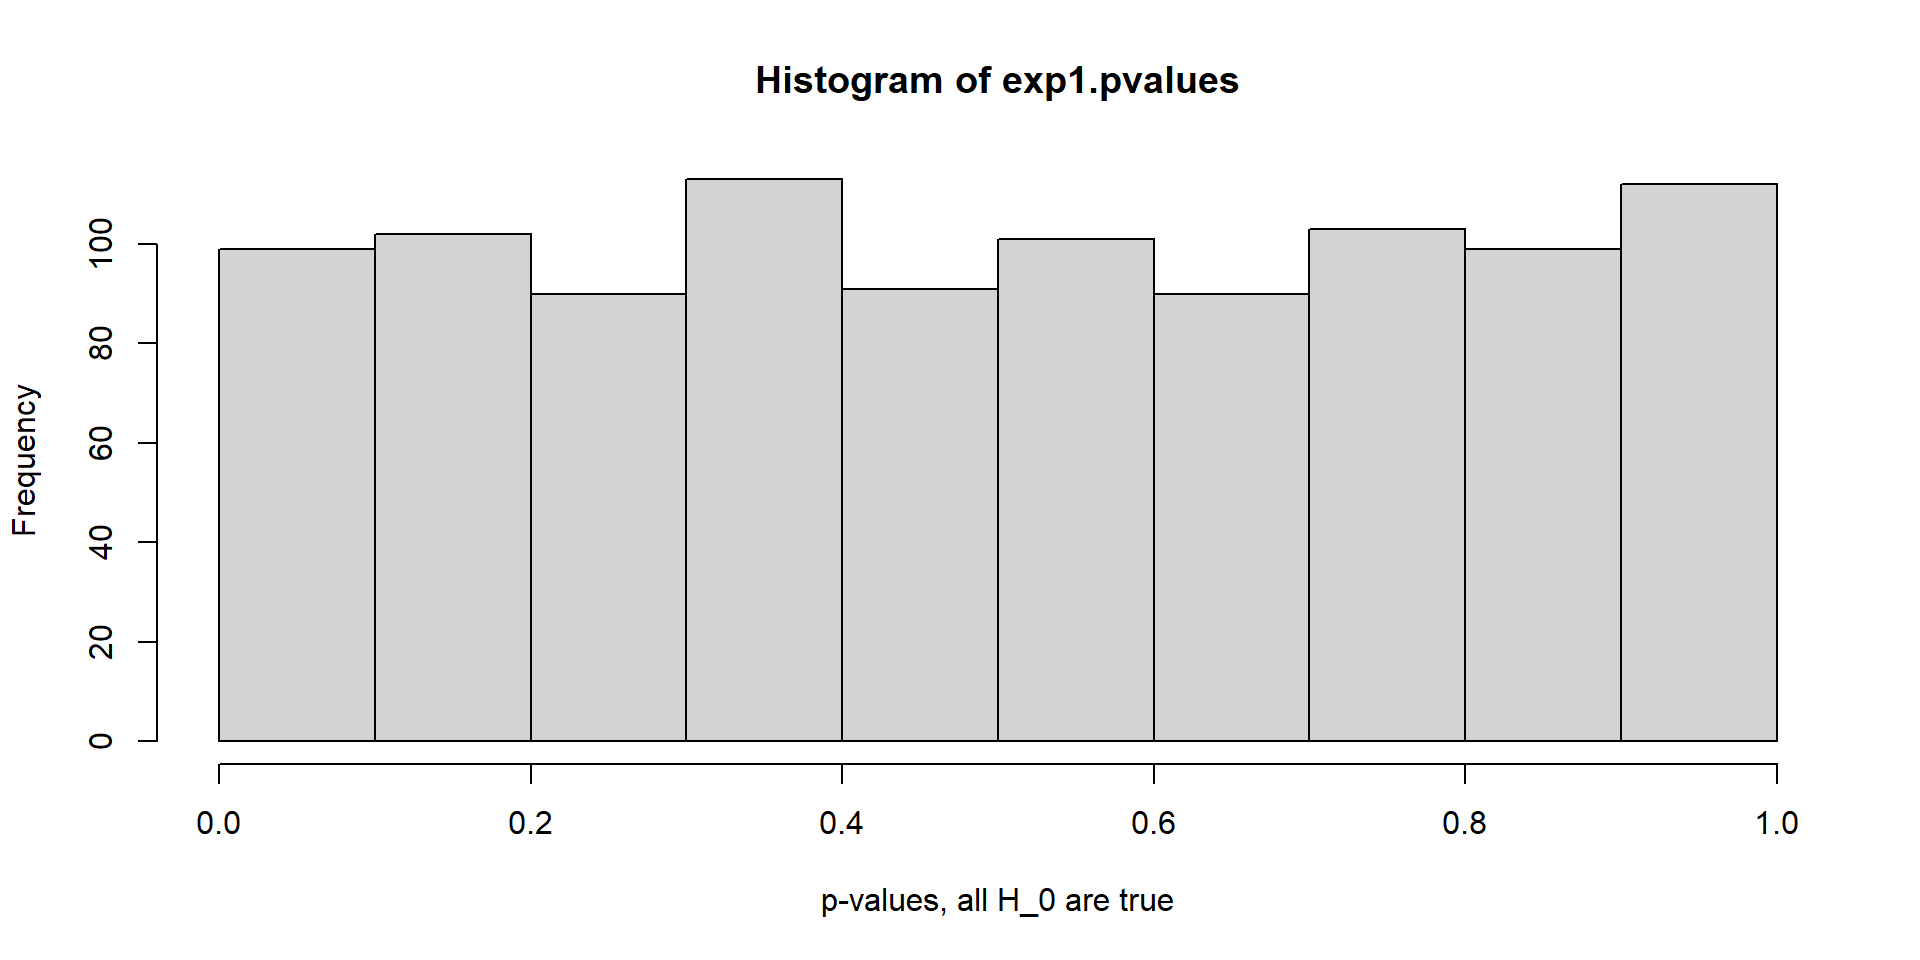
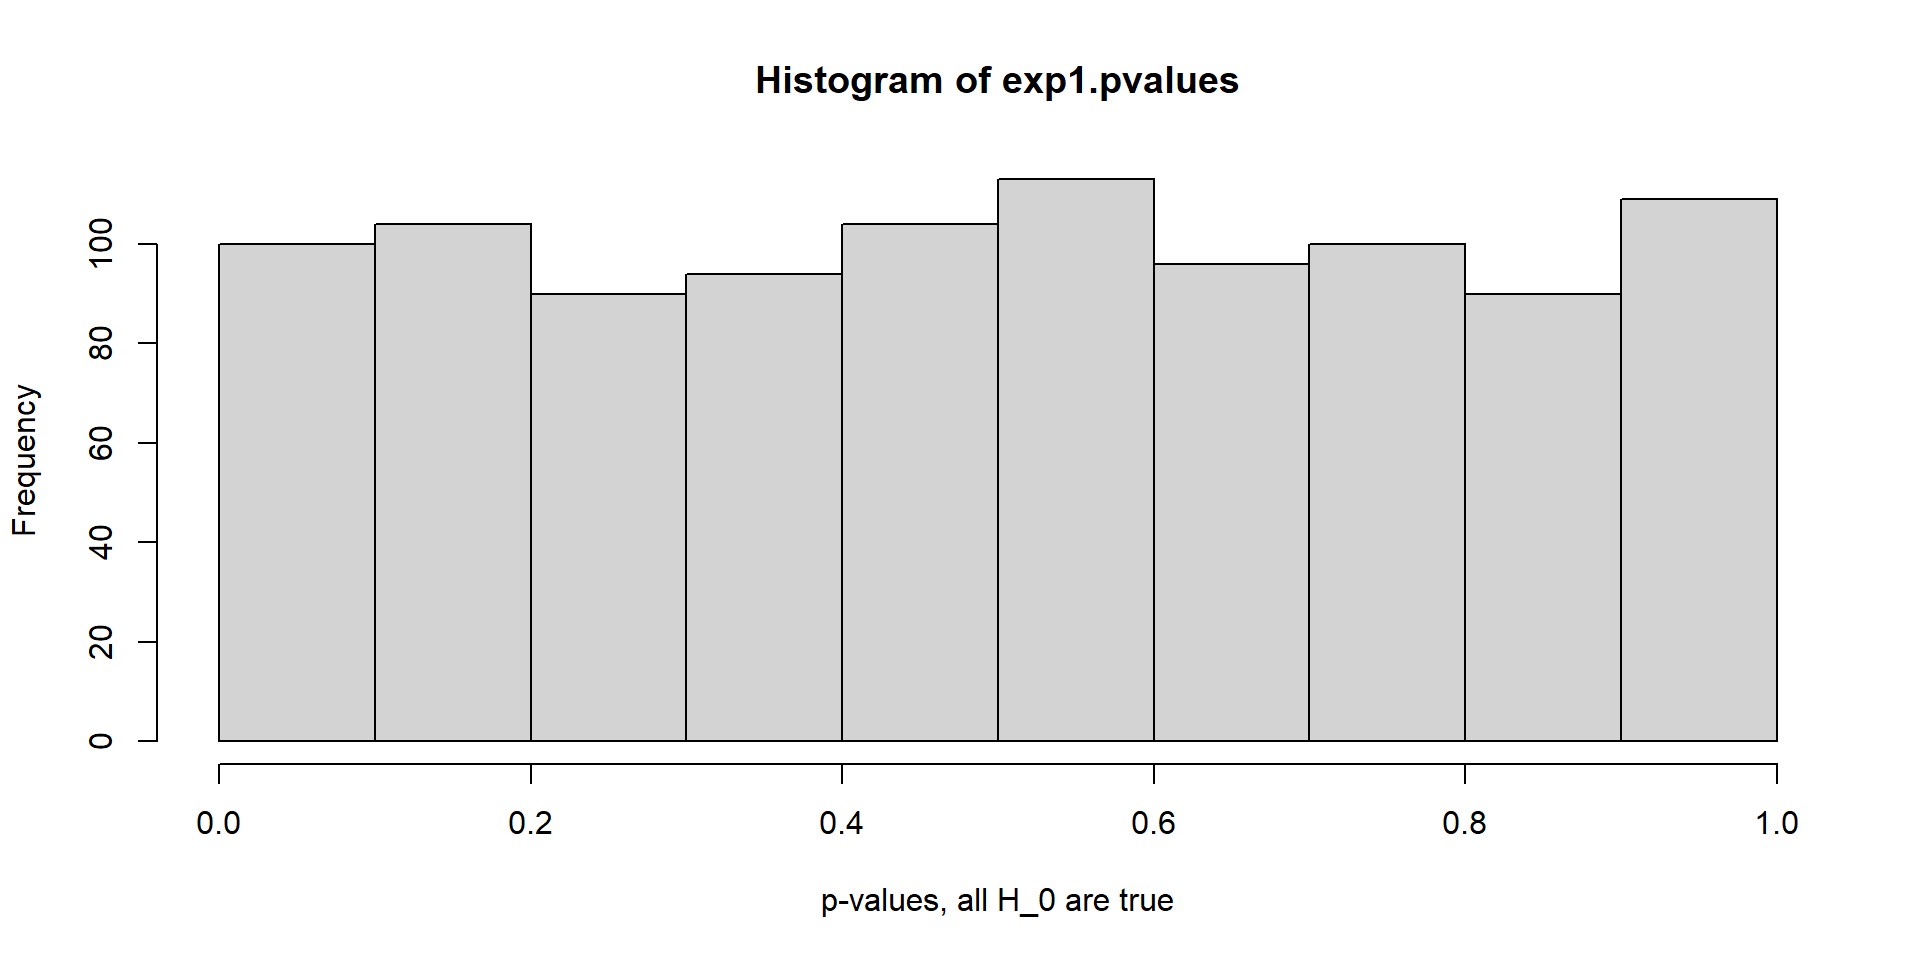
day 7

diff --git a/docs/Day7_MultipleTesting.html b/docs/Day7_MultipleTesting.html
@@ -11,7 +11,7 @@
   <meta name="generator" content="quarto-1.4.555">
 
   <meta name="author" content="Zhaoxia Yu, Department of Statistics, University of California, Irvine">
-  <meta name="dcterms.date" content="2024-07-15">
+  <meta name="dcterms.date" content="2024-07-16">
   <title>Day 7 - Multiple Testing</title>
   <meta name="apple-mobile-web-app-capable" content="yes">
   <meta name="apple-mobile-web-app-status-bar-style" content="black-translucent">
@@ -403,7 +403,7 @@ Zhaoxia Yu, Department of Statistics, University of California, Irvine
 </div>
 </div>
 
-  <p class="date">2024-07-15</p>
+  <p class="date">2024-07-16</p>
 </section>
 <section id="load-libraries" class="slide level2">
 <h2>Load Libraries</h2>
@@ -425,8 +425,8 @@ Zhaoxia Yu, Department of Statistics, University of California, Irvine
 <details class="code-fold">
 <summary>Code</summary>
 <div class="sourceCode cell-code" id="cb2"><pre class="sourceCode numberSource r number-lines code-with-copy"><code class="sourceCode r"><span id="cb2-1"><a href=""></a><span class="co"># Define the table with row and column labels</span></span>
-<span id="cb2-2"><a href=""></a>confusion_matrix <span class="ot">&lt;-</span> <span class="fu">matrix</span>(<span class="fu">c</span>(<span class="st">"True Positive (TP)"</span>, <span class="st">"False Positive (FP)"</span>, </span>
-<span id="cb2-3"><a href=""></a>                             <span class="st">"False Negative (FN)"</span>, <span class="st">"True Negative (TN)"</span>),</span>
+<span id="cb2-2"><a href=""></a>confusion_matrix <span class="ot">&lt;-</span> <span class="fu">matrix</span>(<span class="fu">c</span>(<span class="st">"True Positive (TP)"</span>, <span class="st">"False Negative (FN)"</span>, </span>
+<span id="cb2-3"><a href=""></a>                             <span class="st">"False Positive (FP)"</span>, <span class="st">"True Negative (TN)"</span>),</span>
 <span id="cb2-4"><a href=""></a>                           <span class="at">nrow =</span> <span class="dv">2</span>, <span class="at">byrow =</span> <span class="cn">TRUE</span>,</span>
 <span id="cb2-5"><a href=""></a>                           <span class="at">dimnames =</span> <span class="fu">list</span>(<span class="st">"Truth"</span> <span class="ot">=</span> <span class="fu">c</span>(<span class="st">"Positive"</span>, <span class="st">"Negative"</span>),</span>
 <span id="cb2-6"><a href=""></a>                                           <span class="st">"Tested"</span> <span class="ot">=</span> <span class="fu">c</span>(<span class="st">"Positive"</span>, <span class="st">"Negative"</span>)))</span>
@@ -435,8 +435,8 @@ Zhaoxia Yu, Department of Statistics, University of California, Irvine
 <div class="cell-output cell-output-stdout">
 <pre><code>          Tested
 Truth      Positive              Negative             
-  Positive "True Positive (TP)"  "False Positive (FP)"
-  Negative "False Negative (FN)" "True Negative (TN)" </code></pre>
+  Positive "True Positive (TP)"  "False Negative (FN)"
+  Negative "False Positive (FP)" "True Negative (TN)" </code></pre>
 </div>
 <details class="code-fold">
 <summary>Code</summary>
@@ -476,9 +476,9 @@ Truth      Positive              Negative
 <span id="cb5-4"><a href=""></a><span class="fu">colnames</span>(X) <span class="ot">=</span> <span class="fu">paste</span>(<span class="st">"g"</span>, <span class="at">sep=</span><span class="st">""</span>, <span class="dv">1</span><span class="sc">:</span><span class="dv">1000</span>)</span>
 <span id="cb5-5"><a href=""></a></span>
 <span id="cb5-6"><a href=""></a><span class="co">#simulate </span></span>
-<span id="cb5-7"><a href=""></a><span class="co">#mydata=read_sheet("https://docs.google.com/spreadsheets/d/1tsBz8WUSEHwU3lYAXedtvD-pk4IebusAv2XaRyF_nXg/edit?usp=sharing")</span></span>
-<span id="cb5-8"><a href=""></a><span class="co">#y=mydata$randnumber_day7[1:35]</span></span>
-<span id="cb5-9"><a href=""></a>y<span class="ot">=</span><span class="fu">rnorm</span>(<span class="dv">35</span>)</span>
+<span id="cb5-7"><a href=""></a>mydata<span class="ot">=</span><span class="fu">read_sheet</span>(<span class="st">"https://docs.google.com/spreadsheets/d/1tsBz8WUSEHwU3lYAXedtvD-pk4IebusAv2XaRyF_nXg/edit?usp=sharing"</span>)</span>
+<span id="cb5-8"><a href=""></a>y<span class="ot">=</span>mydata<span class="sc">$</span>randnumber_day7[<span class="dv">1</span><span class="sc">:</span><span class="dv">35</span>]</span>
+<span id="cb5-9"><a href=""></a><span class="co">#y=rnorm(35)</span></span>
 <span id="cb5-10"><a href=""></a></span>
 <span id="cb5-11"><a href=""></a>cor.test.p<span class="ot">=</span><span class="cf">function</span>(x,y){</span>
 <span id="cb5-12"><a href=""></a>  <span class="fu">return</span>(<span class="fu">cor.test</span>(x,y)<span class="sc">$</span>p.value)</span>
@@ -496,14 +496,14 @@ Truth      Positive              Negative
 
 </div>
 <img data-src="Day7_MultipleTesting_files/figure-revealjs/unnamed-chunk-4-1.png" class="quarto-figure quarto-figure-center r-stretch" width="960"></section>
-<section id="distribution-of-the-p-values" class="slide level2">
-<h2>Distribution of the p-values</h2>
-<!-- 
-when All $H_0$ Are True
-- In Experiment 1, the response variable $y$ is **independently** simulated of $X$. No gene is related to the response variable, i.e., all $H_0$ are true.   
--   In theory, when all $H_0$ are true, the distribution of p-values should follow a uniform distribution.
--   The histrogram is very close to uniform.
--->
+<section id="distribution-of-the-p-values-when-all-h_0-are-true" class="slide level2">
+<h2>Distribution of the p-values when All <span class="math inline">\(H_0\)</span> Are True</h2>
+<ul>
+<li>In Experiment 1, the response variable <span class="math inline">\(y\)</span> is <strong>independently</strong> simulated of <span class="math inline">\(X\)</span>. No gene is related to the response variable, i.e., all <span class="math inline">\(H_0\)</span> are true.<br>
+</li>
+<li>In theory, when all <span class="math inline">\(H_0\)</span> are true, the distribution of p-values should follow a uniform distribution.</li>
+<li>The histrogram is very close to uniform.</li>
+</ul>
 </section>
 <section id="experiment-one-number-of-significant-genes-at-level-0.05" class="slide level2">
 <h2>Experiment One: Number of Significant Genes at level 0.05</h2>
@@ -514,19 +514,18 @@ when All $H_0$ Are True
 </div>
 <div class="sourceCode cell-code" id="cb9"><pre class="sourceCode numberSource r number-lines code-with-copy"><code class="sourceCode r"><span id="cb9-1"><a href=""></a><span class="fu">sum</span>(exp1.pvalues<span class="sc">&lt;</span><span class="fl">0.05</span>)</span></code><button title="Copy to Clipboard" class="code-copy-button"><i class="bi"></i></button></pre></div>
 <div class="cell-output cell-output-stdout">
-<pre><code>[1] 59</code></pre>
+<pre><code>[1] 56</code></pre>
 </div>
 </div>
 </section>
 <section id="experiment-one-false-positives" class="slide level2">
 <h2>Experiment One: False Positives</h2>
 <ul>
-<li>In the experiment, the trait (Y) is simulated <strong>independently</strong> from genes. <!--
--   There is no gene is correlated with the trait.
--   But we "detected" significant genes.
--   Why? When all $H_0$ are true, the p-values follow a **uniform** distribution on [0,1]. Just by chance, around 5% of genes will have p-values less than 0.05. 
--   This is known as multiple testing.
---></li>
+<li>In the experiment, the trait (Y) is simulated <strong>independently</strong> from genes.</li>
+<li>There is no gene is correlated with the trait.</li>
+<li>But we “detected” significant genes.</li>
+<li>Why? When all <span class="math inline">\(H_0\)</span> are true, the p-values follow a <strong>uniform</strong> distribution on [0,1]. Just by chance, around 5% of genes will have p-values less than 0.05.</li>
+<li>This is known as multiple testing.</li>
 </ul>
 </section>
 <section id="handling-multiple-testings" class="slide level2 scrollable">
@@ -621,7 +620,7 @@ when All $H_0$ Are True
 <h2>Example 2: Simulate Data and compute p-values</h2>
 <div class="cell">
 <div class="sourceCode cell-code" id="cb17"><pre class="sourceCode numberSource r number-lines code-with-copy"><code class="sourceCode r"><span id="cb17-1"><a href=""></a><span class="co">#For simplicity, we make the first 200 genes correlated with y</span></span>
-<span id="cb17-2"><a href=""></a>X[,<span class="dv">1</span><span class="sc">:</span><span class="dv">200</span>] <span class="ot">=</span> y <span class="sc">+</span> <span class="fu">matrix</span>(<span class="fu">rnorm</span>(<span class="dv">35</span><span class="sc">*</span><span class="dv">200</span>, <span class="at">mean=</span><span class="dv">0</span>, <span class="at">sd=</span><span class="fl">1.2</span>), <span class="dv">35</span>, <span class="dv">200</span>)</span>
+<span id="cb17-2"><a href=""></a>X[,<span class="dv">1</span><span class="sc">:</span><span class="dv">200</span>] <span class="ot">=</span> y <span class="sc">+</span> <span class="fu">matrix</span>(<span class="fu">rnorm</span>(<span class="dv">35</span><span class="sc">*</span><span class="dv">200</span>, <span class="at">mean=</span><span class="dv">0</span>, <span class="at">sd=</span><span class="fu">sd</span>(y, <span class="at">na.rm=</span>T))<span class="sc">*</span><span class="fl">1.5</span>, <span class="dv">35</span>, <span class="dv">200</span>)</span>
 <span id="cb17-3"><a href=""></a></span>
 <span id="cb17-4"><a href=""></a>exp2.pvalues<span class="ot">=</span><span class="fu">apply</span>(X, <span class="dv">2</span>, cor.test.p, <span class="at">y=</span>y);</span>
 <span id="cb17-5"><a href=""></a>exp2.pvalues.bonf <span class="ot">=</span> <span class="fu">p.adjust</span>(exp2.pvalues, <span class="at">method=</span><span class="st">"bonferroni"</span>)</span>
@@ -640,7 +639,7 @@ when All $H_0$ Are True
 <div class="sourceCode cell-code" id="cb18"><pre class="sourceCode numberSource r number-lines code-with-copy"><code class="sourceCode r"><span id="cb18-1"><a href=""></a><span class="fu">sum</span>(exp2.pvalues<span class="sc">&lt;</span><span class="fl">0.05</span>)</span></code><button title="Copy to Clipboard" class="code-copy-button"><i class="bi"></i></button></pre></div>
 </details>
 <div class="cell-output cell-output-stdout">
-<pre><code>[1] 248</code></pre>
+<pre><code>[1] 237</code></pre>
 </div>
 </div>
 <ul>
@@ -652,7 +651,7 @@ when All $H_0$ Are True
 <div class="sourceCode cell-code" id="cb20"><pre class="sourceCode numberSource r number-lines code-with-copy"><code class="sourceCode r"><span id="cb20-1"><a href=""></a><span class="fu">sum</span>(exp2.pvalues.bonf<span class="sc">&lt;</span><span class="fl">0.05</span>)</span></code><button title="Copy to Clipboard" class="code-copy-button"><i class="bi"></i></button></pre></div>
 </details>
 <div class="cell-output cell-output-stdout">
-<pre><code>[1] 75</code></pre>
+<pre><code>[1] 55</code></pre>
 </div>
 </div>
 <ul>
@@ -664,7 +663,7 @@ when All $H_0$ Are True
 <div class="sourceCode cell-code" id="cb22"><pre class="sourceCode numberSource r number-lines code-with-copy"><code class="sourceCode r"><span id="cb22-1"><a href=""></a><span class="fu">sum</span>(exp2.pvalues.fdr<span class="sc">&lt;</span><span class="fl">0.05</span>)</span></code><button title="Copy to Clipboard" class="code-copy-button"><i class="bi"></i></button></pre></div>
 </details>
 <div class="cell-output cell-output-stdout">
-<pre><code>[1] 203</code></pre>
+<pre><code>[1] 180</code></pre>
 </div>
 </div>
 </div>
@@ -682,8 +681,8 @@ when All $H_0$ Are True
 <div class="cell-output cell-output-stdout">
 <pre><code>           test.status
 true.status FALSE TRUE
-      FALSE   750   50
-      TRUE      2  198</code></pre>
+      FALSE   753   47
+      TRUE     10  190</code></pre>
 </div>
 </div>
 </section>
@@ -701,7 +700,7 @@ true.status FALSE TRUE
 <pre><code>           test.status
 true.status FALSE TRUE
       FALSE   800    0
-      TRUE    125   75</code></pre>
+      TRUE    145   55</code></pre>
 </div>
 </div>
 </section>
@@ -718,8 +717,8 @@ true.status FALSE TRUE
 <div class="cell-output cell-output-stdout">
 <pre><code>           test.status
 true.status FALSE TRUE
-      FALSE   788   12
-      TRUE      9  191</code></pre>
+      FALSE   794    6
+      TRUE     26  174</code></pre>
 </div>
 </div>
 <ul>
@@ -741,9 +740,10 @@ true.status FALSE TRUE
 <section id="take-home-messages" class="slide level2">
 <h2>Take Home Messages</h2>
 <ul>
-<li>One needs to think about the issue of multiple testing when conducting multiple tests.</li>
-<li>When the number of tests is not too large, Bonferroni works well. - When the number of tests is large, FDR is more widely used.</li>
-<li>The function <code>p.adjust</code> in R offers several options to compute adjusted p-values.</li>
+<li><p>One needs to think about the issue of multiple testing when conducting multiple tests.</p></li>
+<li><p>When the number of tests is not too large, Bonferroni works well.</p></li>
+<li><p>When the number of tests is large, FDR is more widely used.</p></li>
+<li><p>The function <code>p.adjust</code> in R offers several options to compute adjusted p-values.</p></li>
 </ul>
 <div class="quarto-auto-generated-content">
 <div class="footer footer-default">
